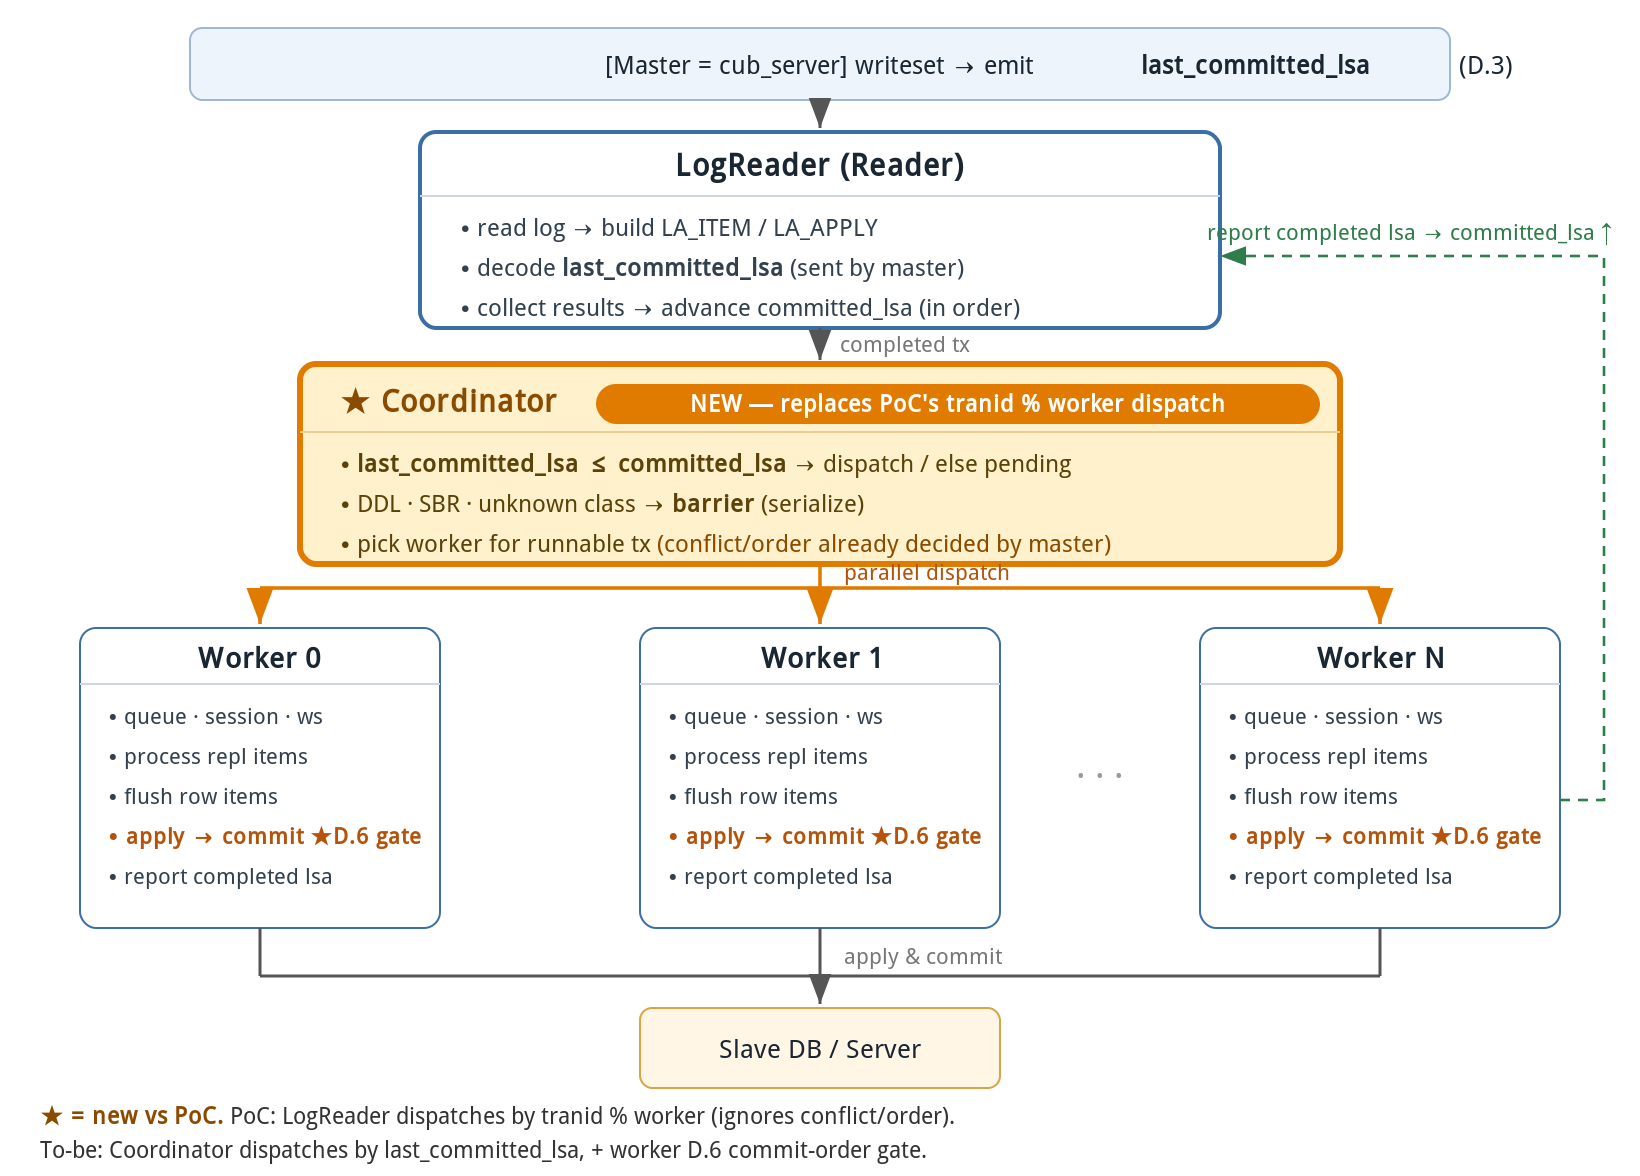
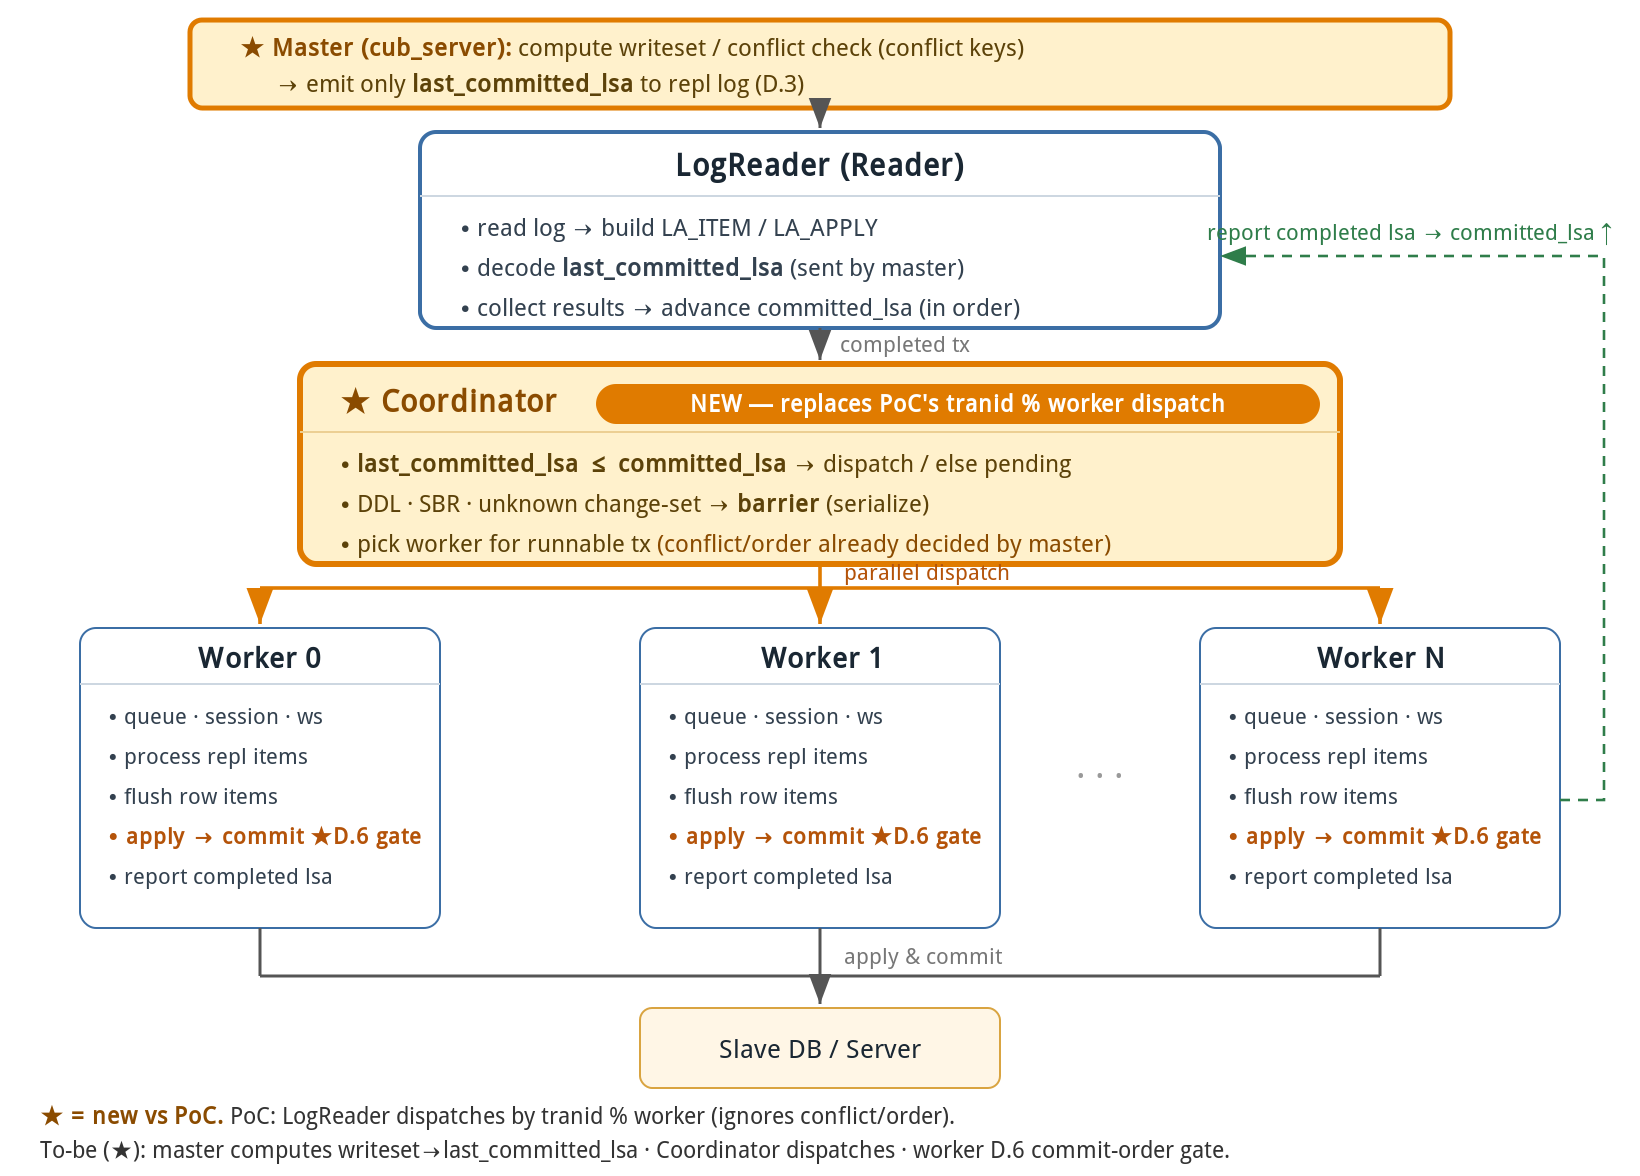
D.1 도입부 재서술 + 그림 보강(마스터 writeset/last_committed도 ★신규 표시)
- D.1 본문: PoC=tranid%worker 단순 분배 → 컨셉=코디네이터(충돌·순서 책임)로 재서술,
  계산은 마스터(D.3)·분배는 코디네이터(D.4) 구분 + "새 거대 모듈 아님"(B.2) 보존
- coordinator_d1 그림:
  · 마스터 박스를 ★주황 하이라이트로 (writeset/conflict check·last_committed 계산도 PoC엔 없던 신규 서버측 변경)
  · 마스터 텍스트 2줄로 풀어 의미 명확화(잘림 해결), 좌측정렬로 cairosvg bold-tspan 겹침 해결
  · 코디네이터 'unknown class' → 'unknown change-set'(구안 class 단위 용어 잔재 정리)
  · 하단 캡션에 마스터 신규 항목 추가

diff --git a/8.concept_design/parallel_applylogdb_coordinator_design.md b/8.concept_design/parallel_applylogdb_coordinator_design.md
@@ -263,7 +263,7 @@ REPLICA (복제본)
 
 ## D.1 코디네이터의 위치와 모듈 책임
 
-설계의 핵심은 새로운 거대한 모듈을 만드는 것이 아니라, 현재 LogReader가 commit 시점에 `tranid % worker_count`로 워커를 고르는 그 한 지점을 **충돌·순서 판단으로 바꾸는 것**이다. 전체 흐름은 다음과 같다.
+PoC는 가장 단순한 방식으로 병렬화했다 — commit 시점에 `tranid % worker_count`로 트랜잭션을 워커에 기계적으로 분배할 뿐, 의존성은 보지 않는다(B.5). 정식 컨셉에서는 바로 이 분배 지점을 **코디네이터**가 맡는다. 코디네이터는 HA 병렬 복제에서 **트랜잭션 간 충돌과 순서를 책임지는 모듈**로, "이 트랜잭션을 지금 병렬로 보내도 되는가, 선행이 끝날 때까지 기다려야 하는가, 보낸다면 어느 워커로 보내는가"를 정한다. (충돌·순서의 *계산* 자체는 마스터가 맡고 — D.3 — 코디네이터는 마스터가 내려준 `last_committed`를 근거로 *분배*를 결정한다 — D.4.) 중요한 점은 이것이 **새로운 거대 모듈이 아니라는** 것이다 — 현재 LogReader가 이미 commit 시점에 워커를 고르는 그 한 지점(`tranid % worker_count`)을 충돌·순서 판단으로 바꾸는 것이고, 코디네이터와 순서 정리는 LogReader가 이미 가진 책임이다(B.2). 전체 흐름은 다음과 같다.
 
 ![D.1 코디네이터 파이프라인 — PoC 병렬 구조(B.2)에 ★Coordinator와 워커 ★D.6 commit 차례 게이트를 추가(하이라이트). PoC의 tranid%worker 직접 분배가 last_committed 기준 분배로 바뀐 지점이 대조적으로 보인다.](images/coordinator_d1.png)
 
